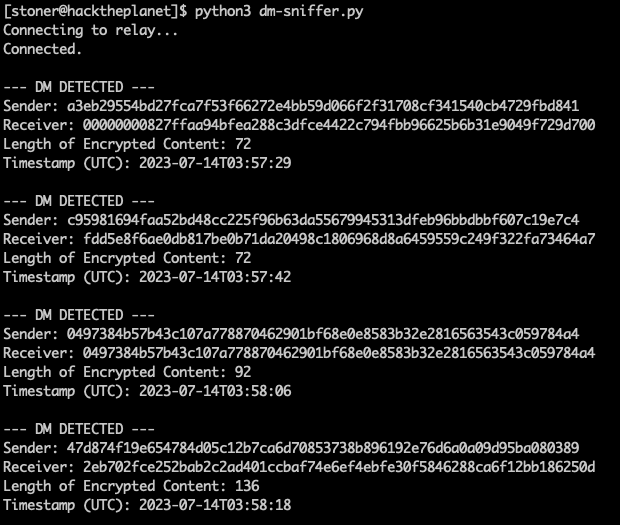
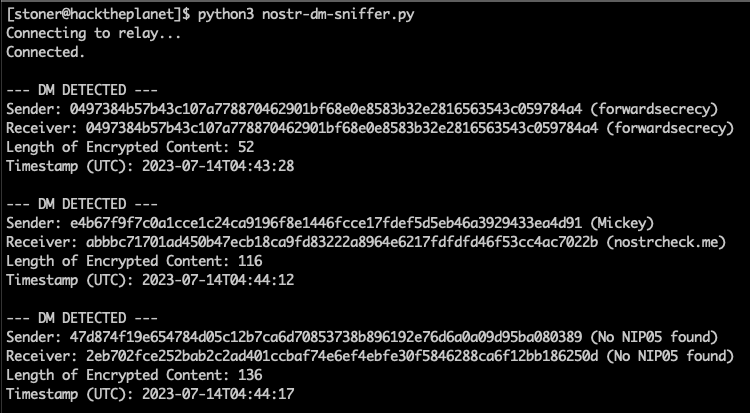
NIP05 support

Changed region(s): [[0.0, 0.0, 1.0, 0.9879]]

diff --git a/nostr-dm-sniffer.py b/nostr-dm-sniffer.py
@@ -7,6 +7,8 @@ __copyright__   = "None"
 __pubkey__      = "npub1qjtnsj6hks7pq7nh3pcyv2gpha5wp6zc8vew9qt9vd2rcpvhsjjqydz44v"
 __website__     = "www.stoner.com"
 
+#!/usr/bin/env python
+
 import asyncio
 import aiohttp
 import json
@@ -27,62 +29,79 @@ subscription_request = [
     "REQ",
     subscription_id,
     {
-        "kinds": [4], # subscribe to NIP-4 (DM) events
+        "kinds": [4],  # subscribe to NIP-4 (DM) events
         "since": now,  # events must be newer than this timestamp
-        "until": now+3600,  # subscription expiration time (1 hour)
+        "until": now + 3600,  # subscription expiration time (1 hour)
     }
 ]
 
-# Process function to handle incoming NIP-4 events
+async def get_nip05(pubkey):
+    search_filter_nip05 = {
+        "kinds": [0],
+        "authors": [pubkey]
+    }
+
+    request = json.dumps(["REQ", "nip05-" + pubkey[:8], search_filter_nip05])
+
+    await websocket.send(request)
+    pubkey_metadata_reply = await websocket.recv()
+
+    if "EOSE" not in pubkey_metadata_reply and pubkey_metadata_reply is not None:
+        pubkey_metadata_reply = pubkey_metadata_reply.replace('\n', '')  # Remove newline characters from the metadata string
+        pubkey_metadata = json.loads(pubkey_metadata_reply)
+        json_acceptable_string = pubkey_metadata[2]['content']
+        d = json.loads(json_acceptable_string)
+        name = d['name']
+
+        nip_05_identifier = name
+
+        await websocket.send(json.dumps(["CLOSE", "nip05-" + pubkey[:8]]))
+        pubkey_metadata_close = await websocket.recv()
+
+    else:
+        nip_05_identifier = "No NIP05 found"
+
+    return nip_05_identifier
+
 async def process_event(event_json):
-    
     print("--- DM DETECTED ---")
     sender = event_json["pubkey"]
     receiver = None
 
-    print(f"Sender: {sender}")
+    print(f"Sender: {sender} ({await get_nip05(sender)})")
 
-    # Extract the receiver pubkey from the tags
     for tag in event_json["tags"]:
         if tag[0] == "p":
             receiver = tag[1]
             break
 
     if receiver:
-        print(f"Receiver: {receiver}")
+        print(f"Receiver: {receiver} ({await get_nip05(receiver)})")
     else:
         print("Receiver: Not Found")
 
-    # Determine the length of the content - assumes content to be a string
     content_length = len(event_json["content"])
     print(f"Length of Encrypted Content: {content_length}")
 
     timestamp_utc = datetime.utcfromtimestamp(event_json["created_at"]).isoformat()
     print(f"Timestamp (UTC): {timestamp_utc}\n")
 
-    # Reset all the things
-    sender = "", 
-    receiver = "", 
-    content_length = 0, 
-    timestamp_utc = ""
-
-# WebSocket client to connect to the relay, subscribe to NIP-0, NIP-4 events, and process incoming events
 async def websocket_client(uri):
+    global websocket  # to make websocket accessible in other functions
+
     async with websockets.connect(uri) as websocket:
         print("Connected.\n")
 
-        # Subscribe to NIP-0, NIP-4 events
         await websocket.send(json.dumps(subscription_request))
 
-        # Handle incoming events indefinitely
         while True:
             response = await websocket.recv()
             response_json = json.loads(response)
 
-            # Determine if response is an EVENT message related to our subscription
             if response_json[0] == "EVENT":
                 await process_event(response_json[2])
             time.sleep(1)
+
 
 print("Connecting to relay...")
 asyncio.get_event_loop().run_until_complete(websocket_client(relay_uri))
